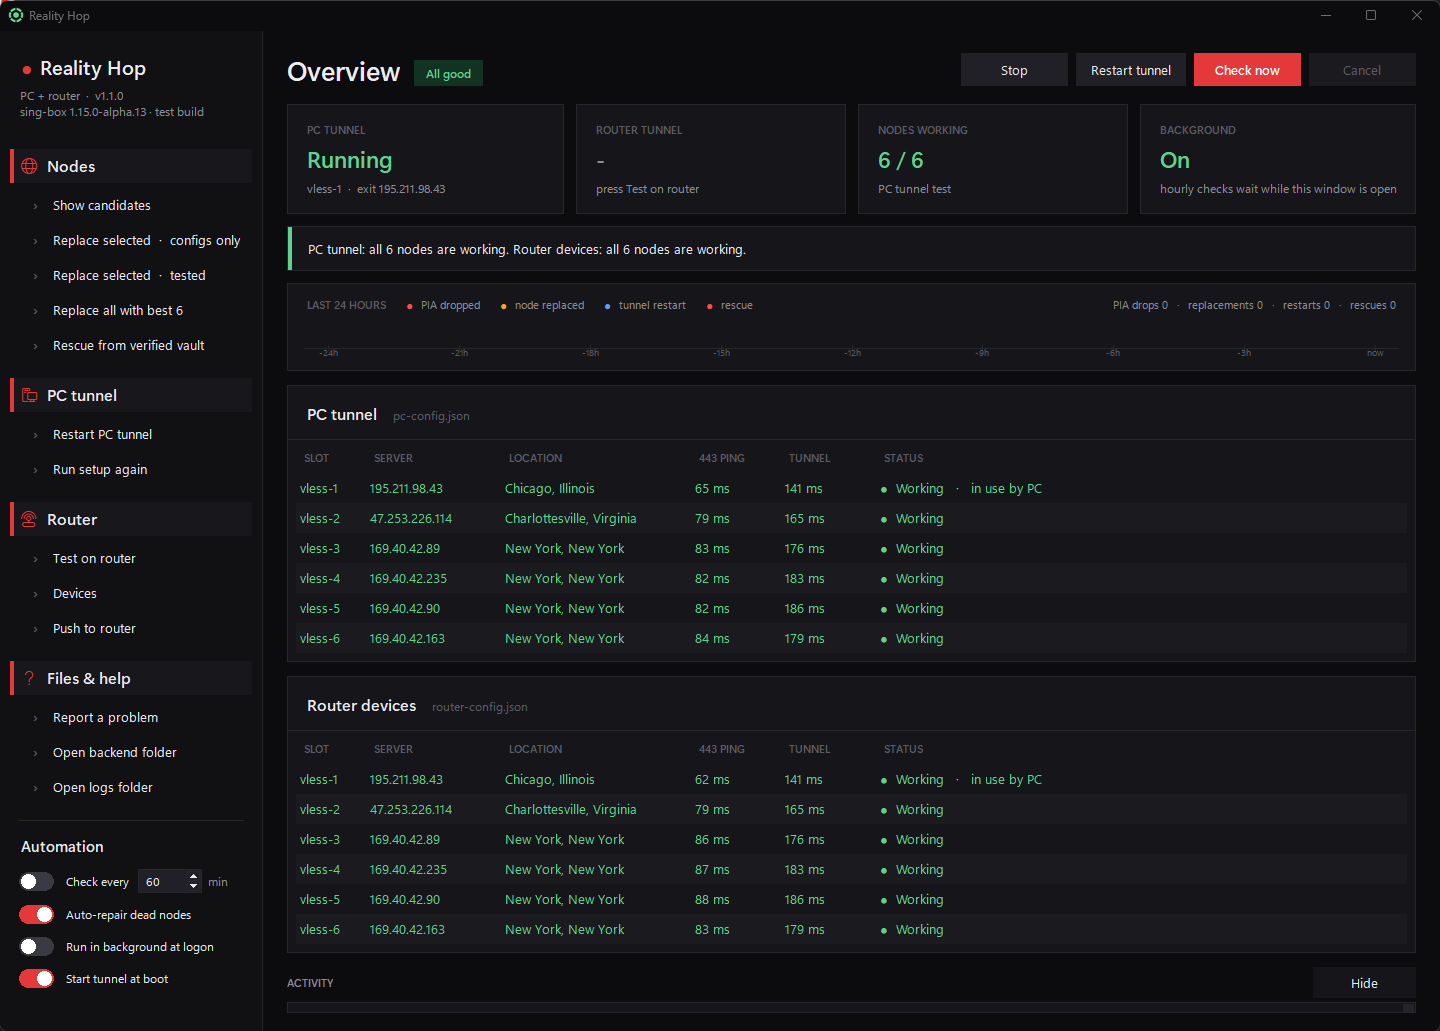
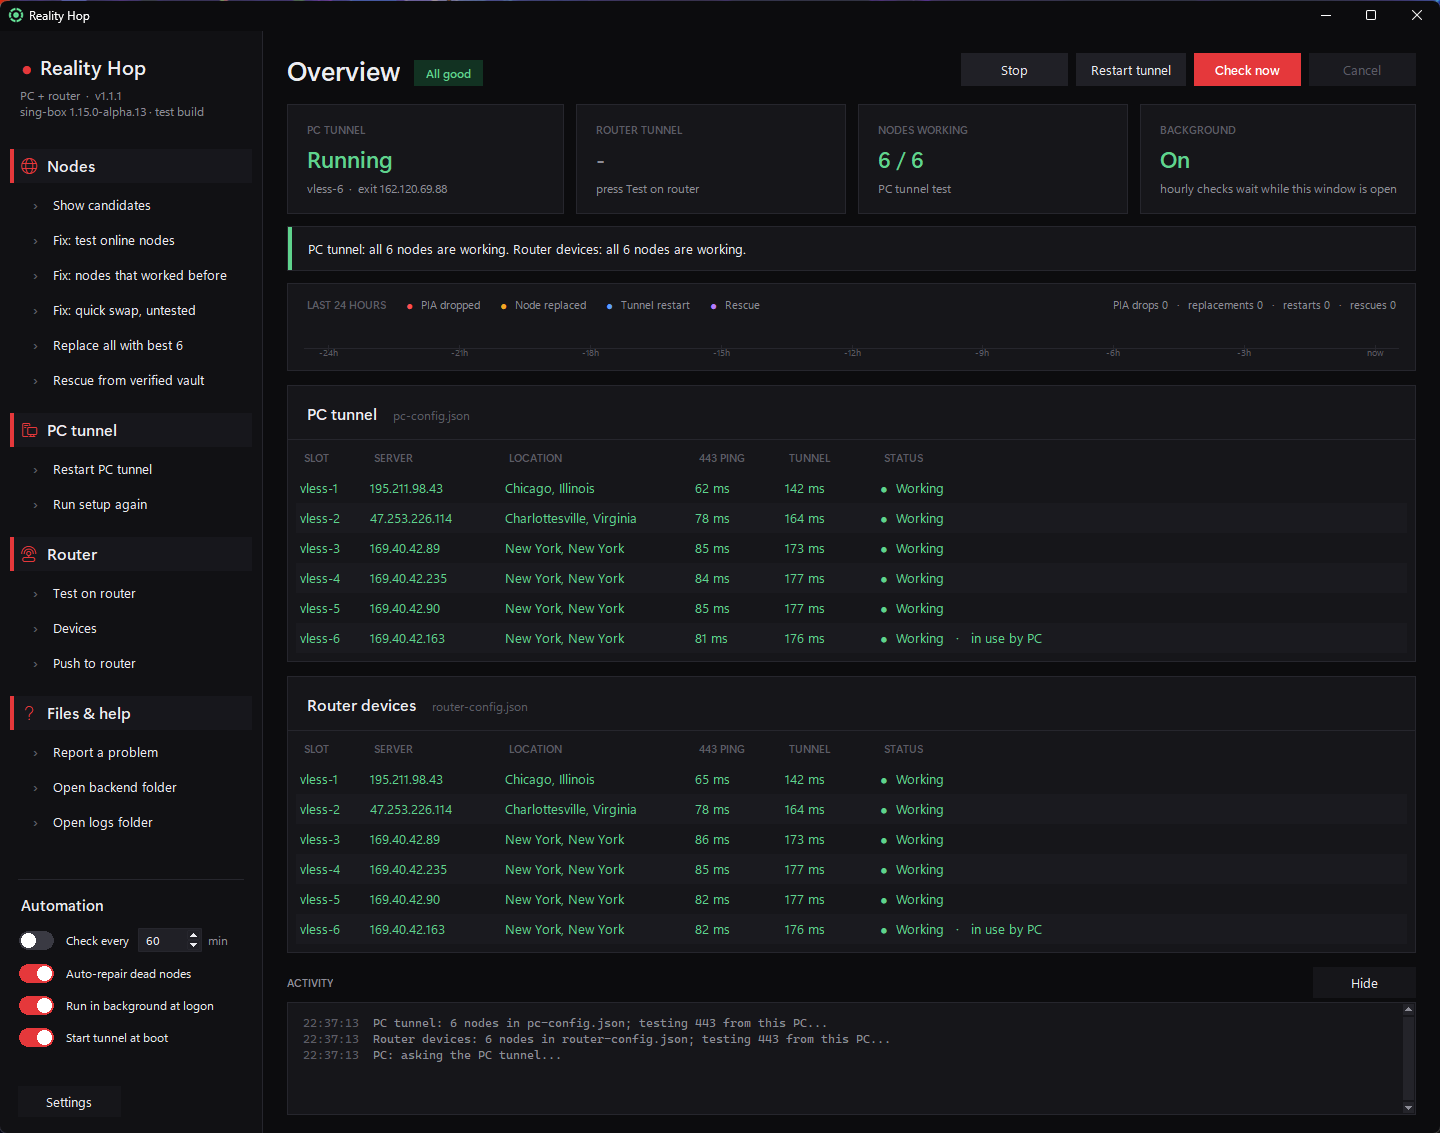
1.1.1: window opens tall enough for the whole sidebar (Settings no longer cut off)

diff --git a/CHANGELOG.md b/CHANGELOG.md
@@ -18,6 +18,8 @@ new license.
   - **Fix: quick swap, untested**: puts the fastest-answering node into the configs only, without a test or a restart.
 
   These replace "Replace selected · configs only / tested".
+- **Window size:** the window opens tall enough for the whole sidebar, so the Settings button is no longer cut off
+  (never taller than the screen).
 - **Last 24 hours:** Rescue is purple now, so it no longer looks like PIA dropped (red). The legend is capitalised.
 
 ## 1.1.0 (2026-10-28)
